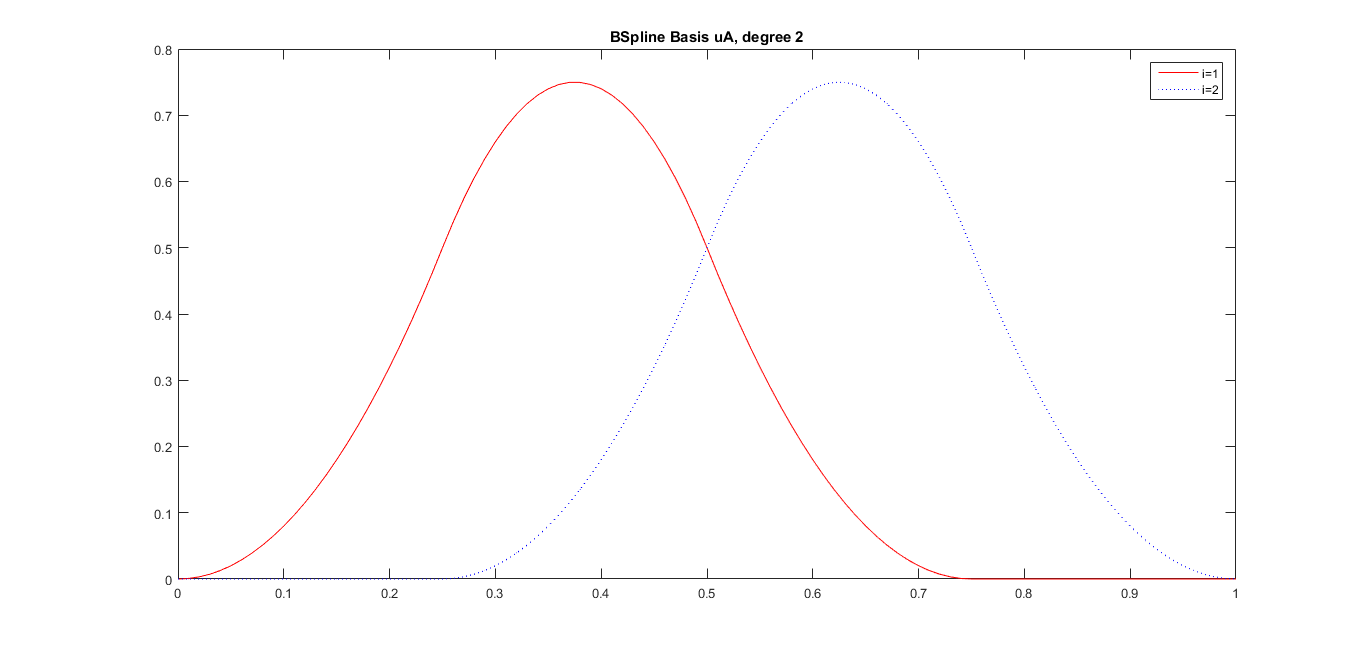
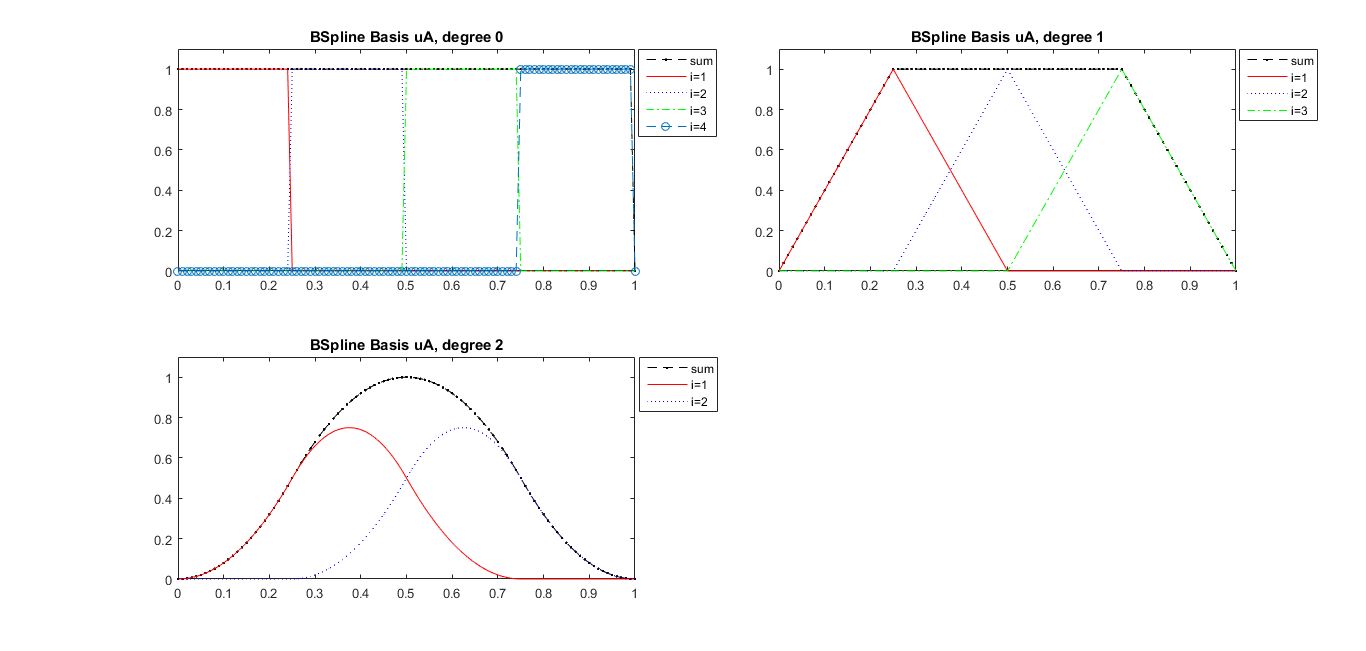
Fixed task 2

diff --git a/UE 2/main.m b/UE 2/main.m
@@ -39,33 +39,114 @@ legend('original polygon', 'original curve', 'extended polygon', 'extended curve
 uA = [0 0.25 0.5 0.75 1];
 uB = [0 0 0 0.3 0.5 0.5 0.6 1 1 1];
 
-ua = zeros(size(uA, 2) - 3, size(t,2));
-ub = zeros(size(uB, 2) - 3, size(t,2));
+ua0 = zeros(size(uA, 2) - 1, size(t,2));
+ua1 = zeros(size(uA, 2) - 2, size(t,2));
+ua2 = zeros(size(uA, 2) - 3, size(t,2));
+ub0 = zeros(size(uB, 2) - 1, size(t,2));
+ub1 = zeros(size(uB, 2) - 2, size(t,2));
+ub2 = zeros(size(uB, 2) - 3, size(t,2));
+
 for i = 1 : size(t, 2)
-ua(:, i) = evaluateBsplineBasis(uA, 2, t(i));
-ub(:, i) = evaluateBsplineBasis(uB, 2, t(i));
+    ua0(:, i) = evaluateBsplineBasis(uA, 0, t(i));
+    ub0(:, i) = evaluateBsplineBasis(uB, 0, t(i));
+    ua1(:, i) = evaluateBsplineBasis(uA, 1, t(i));
+    ub1(:, i) = evaluateBsplineBasis(uB, 1, t(i));
+    ua2(:, i) = evaluateBsplineBasis(uA, 2, t(i));
+    ub2(:, i) = evaluateBsplineBasis(uB, 2, t(i));
 end
 
+ua0s = sum(ua0, 1);
+ua1s = sum(ua1, 1);
+ua2s = sum(ua2, 1);
+
+ub0s = sum(ub0, 1);
+ub1s = sum(ub1, 1);
+ub2s = sum(ub2, 1);
+
 figure
-plot(t, ua(1, :), '-r')
+subplot(2, 2, 1)
+plot(t, ua0s, '--.k')
 hold on
-plot(t, ua(2, :), ':b')
+plot(t, ua0(1, :), '-r')
+plot(t, ua0(2, :), ':b')
+plot(t, ua0(3, :), '-.g')
+plot(t, ua0(4, :), '--o')
 hold off
-legend('i=1', 'i=2')
+axis([0 1 0 1.1])
+legend('sum', 'i=1', 'i=2', 'i=3', 'i=4')
+title('BSpline Basis uA, degree 0')
+
+subplot(2, 2, 2)
+plot(t, ua1s, '--.k')
+hold on
+plot(t, ua1(1, :), '-r')
+plot(t, ua1(2, :), ':b')
+plot(t, ua1(3, :), '-.g')
+hold off
+axis([0 1 0 1.1])
+legend('sum', 'i=1', 'i=2', 'i=3')
+title('BSpline Basis uA, degree 1')
+
+subplot(2, 2, 3)
+plot(t, ua2s, '--.k')
+hold on
+plot(t, ua2(1, :), '-r')
+plot(t, ua2(2, :), ':b')
+hold off
+axis([0 1 0 1.1])
+legend('sum', 'i=1', 'i=2')
 title('BSpline Basis uA, degree 2')
 
 figure
-plot(t, ub(1, :), '-r')
+subplot(2, 2, 1)
+plot(t, ub0s, '--.k')
 hold on
-plot(t, ub(2, :), ':b')
-plot(t, ub(3, :), '-.g')
-plot(t, ub(4, :), '--o')
-plot(t, ub(5, :), '.m')
-plot(t, ub(6, :), '*c')
-plot(t, ub(7, :), '-*k')
+plot(t, ub0(1, :), '-r')
+plot(t, ub0(2, :), ':b')
+plot(t, ub0(3, :), '-.g')
+plot(t, ub0(4, :), '--o')
+plot(t, ub0(5, :), '.m')
+plot(t, ub0(6, :), '*c')
+plot(t, ub0(7, :), '-*k')
+plot(t, ub0(8, :), 'xy')
+plot(t, ub0(9, :), '-xr')
 hold off
-legend('i=1', 'i=2', 'i=3', 'i=4', 'i=5', 'i=6', 'i=7')
+axis([0 1 0 1.1])
+legend('sum', 'i=1', 'i=2', 'i=3', 'i=4', 'i=5', 'i=6', 'i=7', 'i=8', 'i=9')
+title('BSpline Basis uB, degree 0')
+
+subplot(2, 2, 2)
+plot(t, ub0s, '--.k')
+hold on
+plot(t, ub1(1, :), '-r')
+plot(t, ub1(2, :), ':b')
+plot(t, ub1(3, :), '-.g')
+plot(t, ub1(4, :), '--o')
+plot(t, ub1(5, :), '.m')
+plot(t, ub1(6, :), '*c')
+plot(t, ub1(7, :), '-*k')
+plot(t, ub0(8, :), 'xy')
+hold off
+axis([0 1 0 1.1])
+legend('sum', 'i=1', 'i=2', 'i=3', 'i=4', 'i=5', 'i=6', 'i=7', 'i=8')
+title('BSpline Basis uB, degree 1')
+
+
+subplot(2, 2, 3)
+plot(t, ub2s, '--.k')
+hold on
+plot(t, ub2(1, :), '-r')
+plot(t, ub2(2, :), ':b')
+plot(t, ub2(3, :), '-.g')
+plot(t, ub2(4, :), '--o')
+plot(t, ub2(5, :), '.m')
+plot(t, ub2(6, :), '*c')
+plot(t, ub2(7, :), '-*k')
+hold off
+axis([0 1 0 1.1])
+legend('sum', 'i=1', 'i=2', 'i=3', 'i=4', 'i=5', 'i=6', 'i=7')
 title('BSpline Basis uB, degree 2')
+
 
 %% 2.3 
 % Illustrate the deBoor algorithm for one parameter

diff --git a/UE 2/results.tex b/UE 2/results.tex
@@ -48,7 +48,7 @@ Because we have used up all free control points of the second curve we cannot cr
 \end{figure}
 
 \section{Task 2}
-For the visualization of the basis functions of the knot-vectors please refer to figure \ref{fig:2a} and \ref{fig:2b}! 
+For the visualization of the basis functions of the knot-vectors please refer to figure \ref{fig:2a} and \ref{fig:2b}! We can see that if we have a degree that's greater or equal to the knot multiplicity of the first and last knot the sum of all values for each valid parameter does not equal 1 any more.
 
 \begin{figure}[hbtp]
 \caption{Knot-vector: $\{0, 0.25, 0.5, 0.75, 1\}$}
